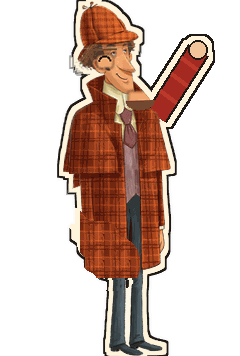
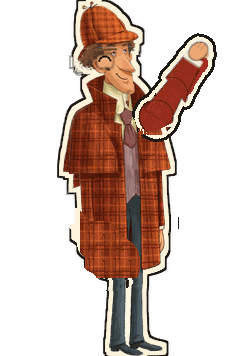
art(pair-art): high-five plates regenerated at pose-spec arm geometry (palm on anchor)

Changed region(s): [[0.525, 0.0927, 0.9042, 0.4017], [0.7292, 0.618, 0.7583, 0.6489]]

diff --git a/docs/pair-art/asset-lock.md b/docs/pair-art/asset-lock.md
@@ -67,9 +67,9 @@ Pose plates and silhouettes are docs/test assets and are excluded from the runti
 | holmes-pose-announce.png | 16,568 | 240x356 |
 | holmes-pose-gaze-up.png | 15,552 | 240x356 |
 | holmes-pose-card-look.png | 15,076 | 240x356 |
-| holmes-pose-celebrate-jump.png | 15,259 | 240x356 |
-| holmes-pose-high-five.png | 15,420 | 240x356 |
-| holmes-pose-clap.png | 14,593 | 240x356 |
+| holmes-pose-celebrate-jump.png | 16,275 | 240x356 |
+| holmes-pose-high-five.png | 16,341 | 240x356 |
+| holmes-pose-clap.png | 14,605 | 240x356 |
 | holmes-pose-pout.png | 18,688 | 240x356 |
 | watson-pose-walk.png | 16,491 | 268x280 |
 | watson-pose-read.png | 17,574 | 268x280 |
@@ -77,9 +77,9 @@ Pose plates and silhouettes are docs/test assets and are excluded from the runti
 | watson-pose-station-idle.png | 16,651 | 268x280 |
 | watson-pose-notebook-mark.png | 17,784 | 268x280 |
 | watson-pose-gasp.png | 18,606 | 268x280 |
-| watson-pose-celebrate-jump.png | 18,114 | 268x280 |
-| watson-pose-high-five.png | 17,392 | 268x280 |
-| watson-pose-clap.png | 17,493 | 268x280 |
+| watson-pose-celebrate-jump.png | 17,360 | 268x280 |
+| watson-pose-high-five.png | 18,478 | 268x280 |
+| watson-pose-clap.png | 16,064 | 268x280 |
 | watson-pose-pout.png | 16,834 | 268x280 |
 | silhouette-holmes-104.png | 2,450 | 43x104 |
 | silhouette-watson-104.png | 2,647 | 63x104 |
@@ -88,7 +88,7 @@ Pose plates and silhouettes are docs/test assets and are excluded from the runti
 
 - Holmes: frontArm (78,58) · swingArm (44,58) · head (62,54) · torso (60,132) · leg-a (52,118) · leg-b (64,118) · palm anchor (99,25) · base hand points: front (87,83), back (37,98)
 - Watson: frontArm (36,54) · noteArm (82,54) · head (60,50) · torso (60,110) · leg-a (52,92) · leg-b (66,92) · palm anchor (15,21) · base hand points: front (26,89), note-arm (97,93)
-- Measured palm error on assembled high-five plates: Holmes {'measured_vb': [98.75, 24.75], 'contact_vb': [99, 25], 'error_px': 0.35, 'skin_px': 208} · Watson {'measured_vb': [14.75, 20.75], 'contact_vb': [15, 21], 'error_px': 0.35, 'skin_px': 208}
+- Measured palm error on the regenerated high-five plates: Holmes {'measured_vb': [98.89, 25.36], 'contact_vb': [99, 25], 'error_px': 0.37, 'skin_px': 229} · Watson {'measured_vb': [15.44, 20.91], 'contact_vb': [15, 21], 'error_px': 0.45, 'skin_px': 224}
 - Base arm palms (panel cure): every arm part contains its hand; skin centroid within 0.6 vb of the rig hand point; shoulder pivot inside painted pixels (alpha 235–250). Per-file numbers in `ASSET_LOCK.json` → `arm_palm_measurements_cure`.
 
 ## Silhouette gate (104 px, grayscale)
@@ -112,6 +112,7 @@ Pose plates and silhouettes are docs/test assets and are excluded from the runti
 
 - Parts are cropped to their alpha bbox; rect_vb gives each part's placement rect in rig viewBox units (x0,y0,x1,y1). Assemble in order: halo, legs (leg-a + leg-b), arm-back/note, torso, arm-front, face, hat.
 - Faces: holmes-face-<kind>.png / watson-face-<kind>.png are full head parts with the expression drawn in the character's own features; holmes-head.png / watson-head.png are the neutral bases.
+- POSE-PLATE REGENERATION 2026-11-08 (high-five geometry cure): the painted pose plates' raised arms disagreed with the rig pose spec (DetectivePair.tsx @ 9e49da3) — in the old high-five plates the anchor hand was a flat rig-colour disc (242,196,154), not painted skin, the arm rose from the wrong shoulder line, and a duplicate base-position front hand remained. All six arm-pose plates were regenerated as composites of the cured parts at the pose-spec angles (high-five: arm-front rotated about its pivot by the harness angle, hand segment extended along the arm axis so the painted palm lands on HIGH_FIVE_CONTACT; celebrate/clap: parts at CELEBRATE/CLAP spec angles, arms behind/over torso in rig draw order). Measured on the shipped plates (harness skin band, >=40px cluster within 30 vb): Holmes high-five palm (98.89,25.36) vb, 0.37 vb from (99,25), 229 px; Watson (15.44,20.91), 0.45 vb from (15,21), 224 px. Celebrate palms 0.39-0.90 vb from rig targets; clap palms 0.29-0.36 vb. Glass: high-five and Holmes celebrate/clap carry zero pale-lens px (glass = null); Watson celebrate carries the prop glass at the rig position. NOTE: the parts-assembly palm number is bounded by rigid-arm geometry — the arm-front part's palm radius (26.6 vb Holmes) is shorter than the contact radius (39.1 vb), so a pure rotation assembly lands ~7.3 rig px short regardless of plate content; the rig itself draws a longer explicit arm for high-five. Plates now show the true anchor geometry.
 - PANEL CURE 2026-11-08 (glass): the earlier claim that the painted magnifier had been cleared was FALSE for the parts and plates as shipped. The baked hand + magnifier has now been inpainted out of holmes-torso.png, the Holmes leg parts and every Holmes pose plate (plaid/trouser clone-tile fill, contained to the original silhouette). Measured with a narrow skin band (see arm_palm_measurements_cure.band): holmes-torso hand-zone skin 165 -> 0 px below y=130 (8 skin px remain at the neck, which is the neck); Holmes leg parts 190 -> 0 / 4 px; pale-lens pixels in the baked-glass box of every Holmes plate -> 0 (<=1). prop-glass.png is now the single glass source: dock/search/berth-think/ack/announce/gaze-up/card-look/walk plates carry exactly one glass (400 pale-lens px, the prop), celebrate-jump/high-five/clap carry zero (glass = null, section 4.2/3.5).
 - PANEL CURE 2026-11-08 (arms): all four arm parts were repainted to the rig geometry — shoulder cap centred on the pivot, sleeve to a cream cuff, painted hand centred on the rig hand point (Holmes front (87,83), Holmes back (37,98), Watson front (26,89), Watson note-arm hand (97,93) measured from the notebook hand in the source painting). See arm_palm_measurements_cure.
 - PANEL CURE 2026-11-08 (legs split): holmes-legs.png / watson-legs.png are replaced by leg-a + leg-b parts (complementary masks over the same placement rect; pivots Holmes (52,118)/(64,118), Watson (52,92)/(66,92) recorded in pivots_vb and the manifest, each pivot inside its part's painted hip, alpha 254-255). Watson's book + hand were also inpainted out of his leg parts (coat plaid fill) — legs carry legs only. The fused holmes-legs.png / watson-legs.png files are removed.

diff --git a/docs/pair-art/KIDTEST_SMOKE.md b/docs/pair-art/KIDTEST_SMOKE.md
@@ -32,11 +32,11 @@ Face-box source: manifest.json face boxes for: holmes-pose-dock.png, holmes-face
 | holmes-pose-announce | holmes-pose-announce.png | PNG | 240×356 | 16568 |
 | holmes-pose-berth-think | holmes-pose-berth-think.png | PNG | 240×356 | 15626 |
 | holmes-pose-card-look | holmes-pose-card-look.png | PNG | 240×356 | 15076 |
-| holmes-pose-celebrate-jump | holmes-pose-celebrate-jump.png | PNG | 240×356 | 15259 |
-| holmes-pose-clap | holmes-pose-clap.png | PNG | 240×356 | 14593 |
+| holmes-pose-celebrate-jump | holmes-pose-celebrate-jump.png | PNG | 240×356 | 16275 |
+| holmes-pose-clap | holmes-pose-clap.png | PNG | 240×356 | 14605 |
 | holmes-pose-dock | holmes-pose-dock.png | PNG | 240×356 | 14690 |
 | holmes-pose-gaze-up | holmes-pose-gaze-up.png | PNG | 240×356 | 15552 |
-| holmes-pose-high-five | holmes-pose-high-five.png | PNG | 240×356 | 15420 |
+| holmes-pose-high-five | holmes-pose-high-five.png | PNG | 240×356 | 16341 |
 | holmes-pose-pout | holmes-pose-pout.png | PNG | 240×356 | 18688 |
 | holmes-pose-search | holmes-pose-search.png | PNG | 240×356 | 15609 |
 | holmes-pose-walk | holmes-pose-walk.png | PNG | 240×356 | 14699 |
@@ -67,10 +67,10 @@ Face-box source: manifest.json face boxes for: holmes-pose-dock.png, holmes-face
 | watson-head | watson-head.png | PNG | 161×84 | 5399 |
 | watson-leg-a | watson-leg-a.png | PNG | 159×108 | 3268 |
 | watson-leg-b | watson-leg-b.png | PNG | 159×108 | 3879 |
-| watson-pose-celebrate-jump | watson-pose-celebrate-jump.png | PNG | 268×280 | 18114 |
-| watson-pose-clap | watson-pose-clap.png | PNG | 268×280 | 17493 |
+| watson-pose-celebrate-jump | watson-pose-celebrate-jump.png | PNG | 268×280 | 17360 |
+| watson-pose-clap | watson-pose-clap.png | PNG | 268×280 | 16064 |
 | watson-pose-gasp | watson-pose-gasp.png | PNG | 268×280 | 18606 |
-| watson-pose-high-five | watson-pose-high-five.png | PNG | 268×280 | 17392 |
+| watson-pose-high-five | watson-pose-high-five.png | PNG | 268×280 | 18478 |
 | watson-pose-notebook-mark | watson-pose-notebook-mark.png | PNG | 268×280 | 17784 |
 | watson-pose-pout | watson-pose-pout.png | PNG | 268×280 | 16834 |
 | watson-pose-read | watson-pose-read.png | PNG | 268×280 | 17574 |
